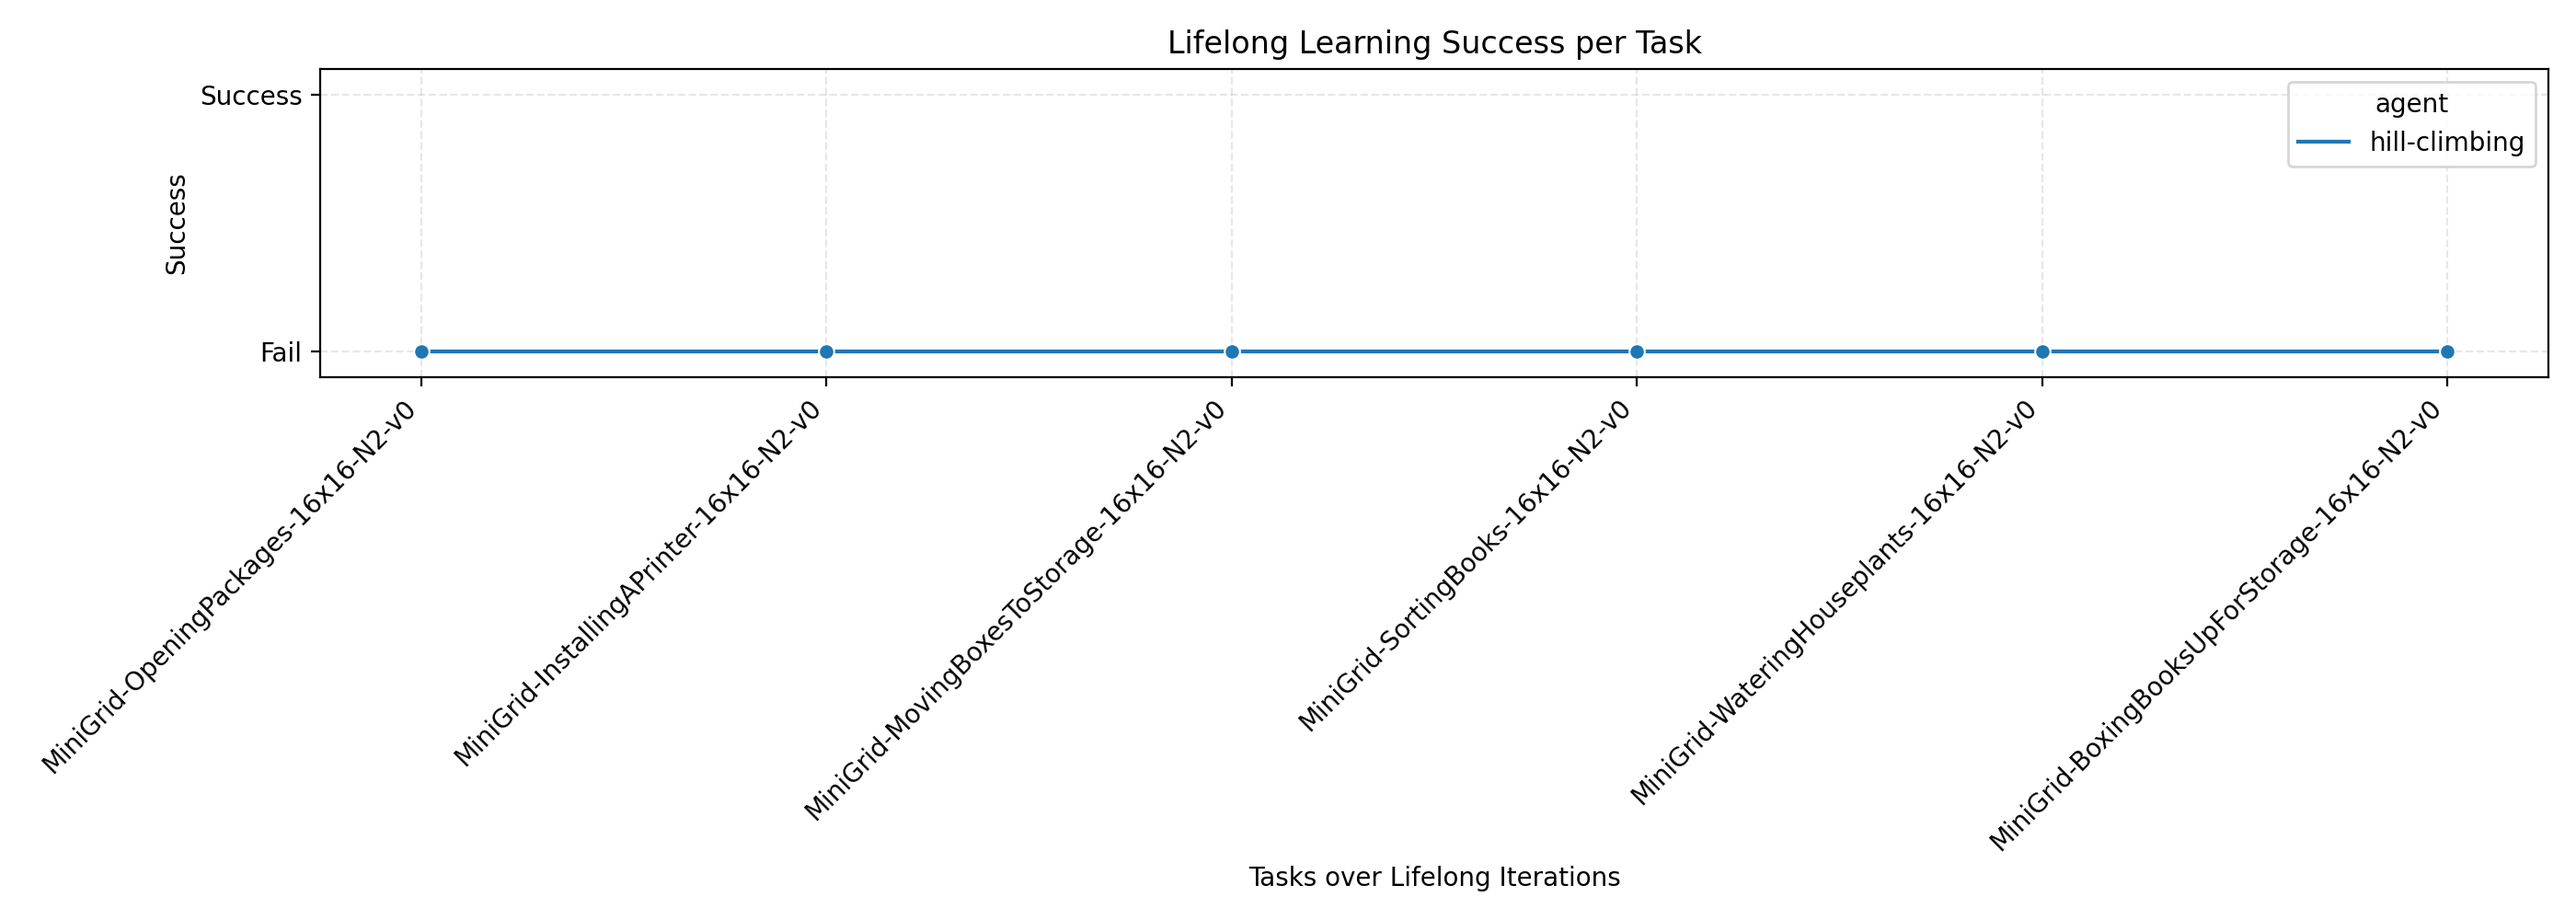
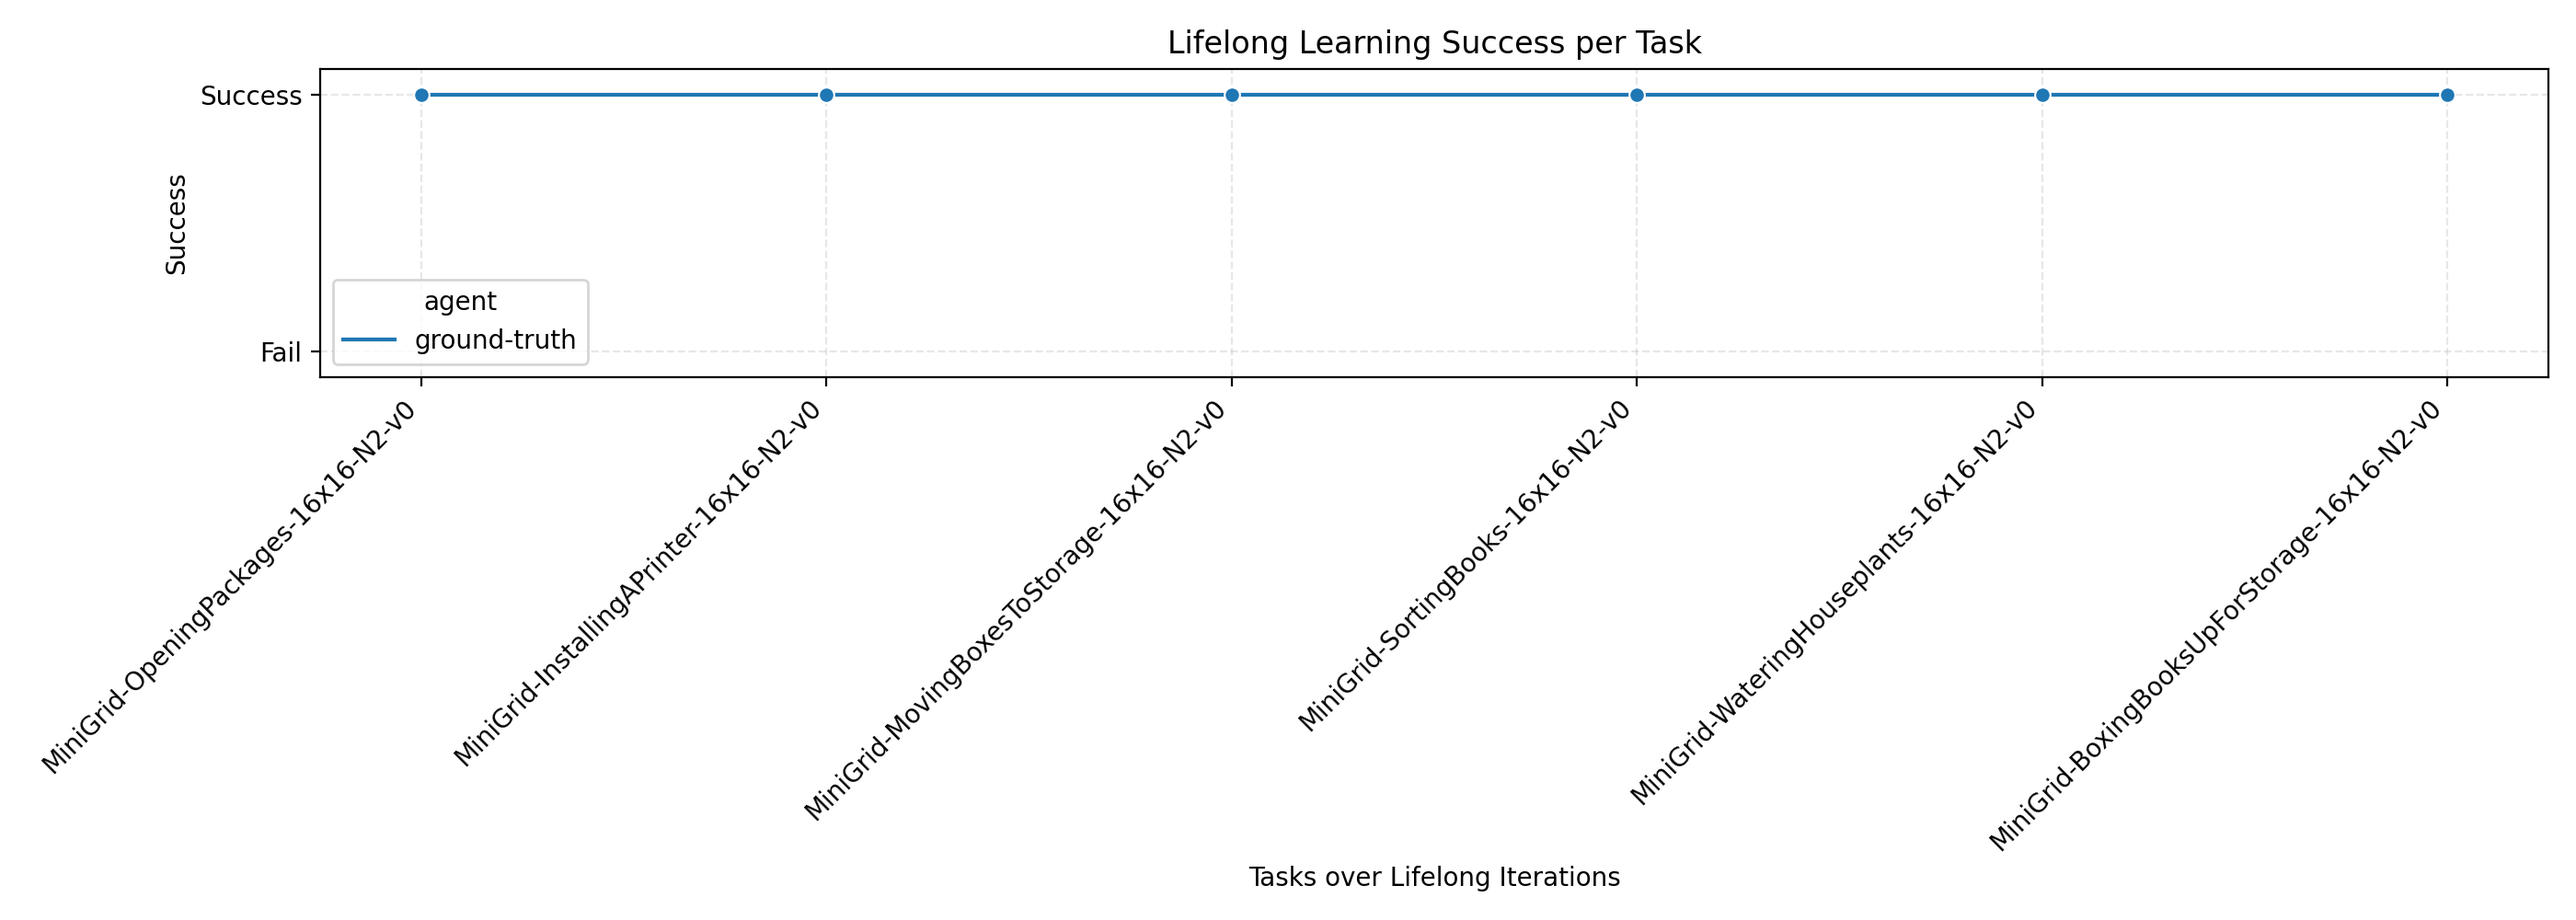
dumped colla stuff

Changed region(s): [[0.1554, 0.093, 0.9943, 0.186], [0.1243, 0.31, 0.9632, 0.403]]

diff --git a/test_colla_final.py b/test_colla_final.py
@@ -45,7 +45,7 @@ class RandomAgent():
         self.name = name
         self.actions = None
 
-    def reset(self, task_name):
+    def reset(self, task_name, learn=False):
         pass
 
     def policy(self, obs, env):
@@ -571,7 +571,7 @@ class GroundTruthAgent(OperatorLearningAgent):
         self.i = 0
         self.actions = None
     
-    def reset(self, task_name):
+    def reset(self, task_name, learn=False):
         self.dataset = []
         self.ground_atom_dataset = []
         self.tasks = []
@@ -764,11 +764,11 @@ print("#"*30)
 print(tasks)
 
 all_agents = [
-                #GroundTruthAgent("ground-truth"),
+                GroundTruthAgent("ground-truth"),
                 #DummyAgent("dummy", strips_learner="dummy"),
                 #OperatorLearningAgent("cluster-intersect", strips_learner="cluster_and_intersect"),
                 #OperatorLearningAgent("backchaining", strips_learner="backchaining"),
-                OperatorLearningAgent("hill-climbing", strips_learner="pnad_search"),
+                #OperatorLearningAgent("hill-climbing", strips_learner="pnad_search"),
                 #OperatorLearningAgent("llm", strips_learner="llm"),
                 #OperatorLearningAgent("backward-forward", strips_learner="backward-forward"),
             ]
